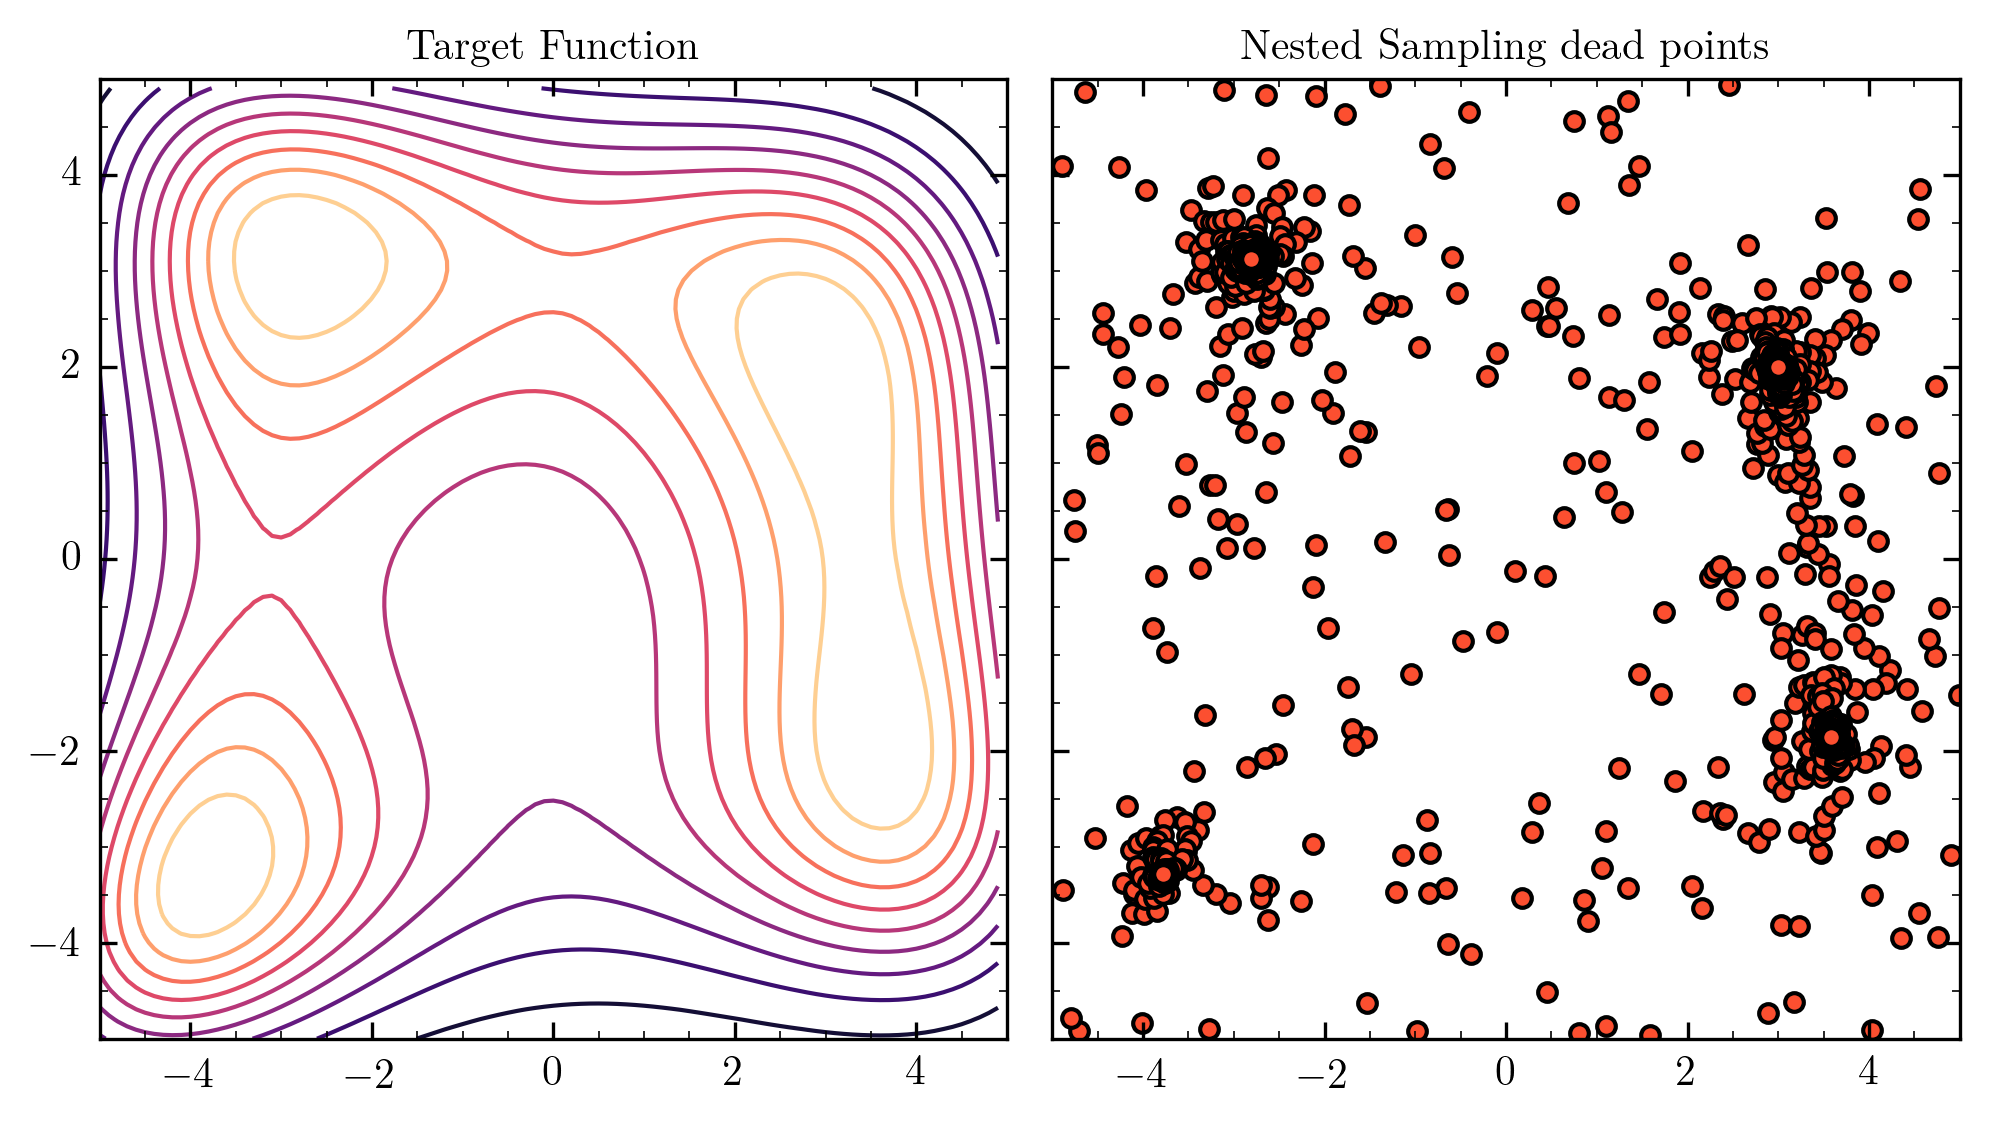
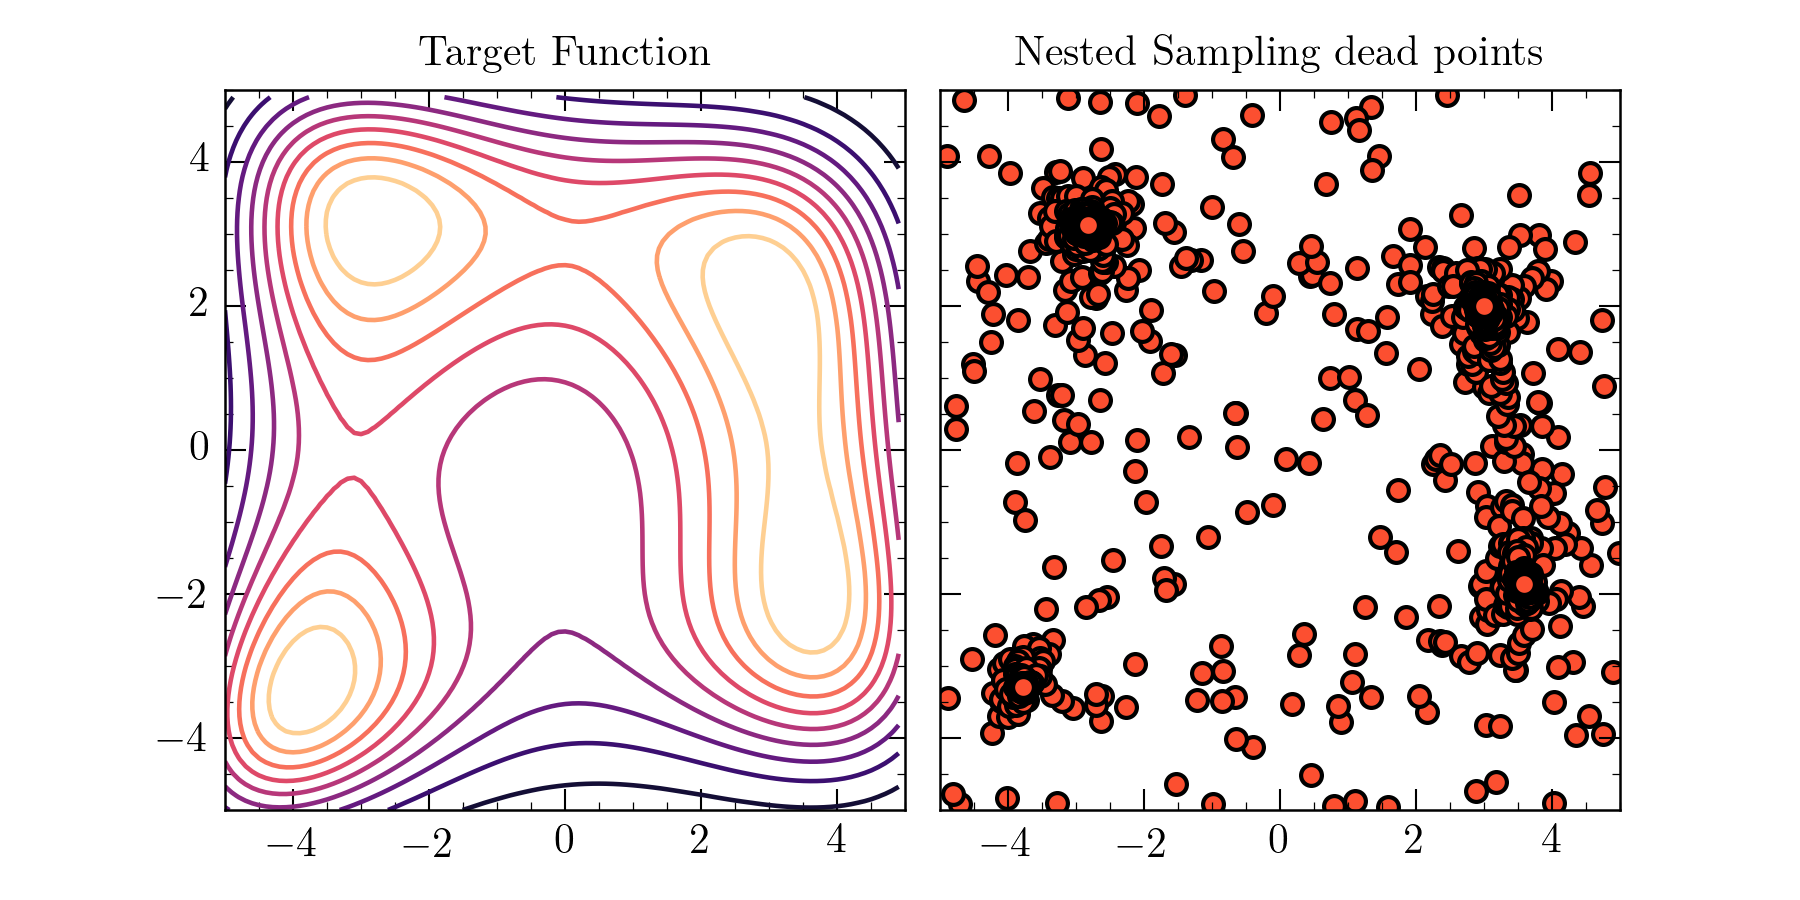
update example animation with compression

Changed region(s): [[0.0311, 0.0311, 0.9956, 0.9644], [0.9644, 0.3111, 0.9956, 0.3733], [0.9644, 0.4044, 0.9956, 0.4356]]

diff --git a/plotting/plots.py b/plotting/plots.py
@@ -3,8 +3,8 @@ import numpy as np
 import os
 import subprocess
 
-plt.style.use(os.path.dirname(os.path.realpath(__file__))+'/polynet.mplstyle')
-
+# plt.style.use(os.path.dirname(os.path.realpath(__file__))+'/polynet.mplstyle')
+plt.style.use("prb")
 
 def make_animation_frames(grid,z,samples,filename,frames_dir="frames"):
     """Make animation frames then animate them with subprocess call to convert
@@ -17,8 +17,8 @@ def make_animation_frames(grid,z,samples,filename,frames_dir="frames"):
         frames_dir (str, optional): Defaults to "frames".
     """
     anim_dir=os.path.join(filename,frames_dir)
-    gs = {"wspace": 0.05, "hspace": 0.03}
-    n_frames=30
+    gs = {"wspace": 0.15, "hspace": 0.03}
+    n_frames=20
     # n_samp=500
     os.makedirs(anim_dir,exist_ok=True)
 
@@ -26,13 +26,13 @@ def make_animation_frames(grid,z,samples,filename,frames_dir="frames"):
         uw = samples.logL_birth[~(samples.logL_birth == -np.inf)]
         points = samples.live_points(uw.min() + i / n_frames * (uw.max() - uw.min()))
 
-        f, a = plt.subplots(nrows=1, ncols=2, sharey=True,sharex=True, gridspec_kw=gs, figsize=[8, 4])
+        f, a = plt.subplots(nrows=1, ncols=2, sharey=True,sharex=True, gridspec_kw=gs, figsize=[6, 3])
         scatterps=points #points.sample(100,replace=True)
         a[0].contour(*grid, z, levels=10, alpha=1.,cmap="magma")
         a[0].contour(*grid, z, levels=[np.exp(scatterps.logL.min())], colors="black", alpha=.6, linewidths=3)
         
-        a[0].set_title("Target Function")
-        a[1].set_title("Nested Sampling live points")
+        a[0].set_title("Likelihood",fontsize=6)
+        a[1].set_title("Live points",fontsize=6)
         
         a[1].scatter(scatterps.to_numpy()[...,0],scatterps.to_numpy()[...,1],marker="o",color="C0",edgecolor="black",rasterized=True)
         a[1].contour(*grid, z, levels=[np.exp(scatterps.logL.min())], colors="black", alpha=.6, linewidths=3)
@@ -40,15 +40,18 @@ def make_animation_frames(grid,z,samples,filename,frames_dir="frames"):
         a[0].set_ylim(-5, 5)
 
         # f.tight_layout()
-        f.savefig(os.path.join(anim_dir, str(i) + ".png"),dpi=150)
+        f.savefig(os.path.join(anim_dir, str(i) + ".png"),dpi=300)
 
     
-    proc=subprocess.Popen(["convert", "-delay", "50",*[os.path.join(anim_dir,str(x)+".png") for x in np.arange(n_frames-1)],"-delay","250",os.path.join(anim_dir,str(n_frames-1)+".png"),os.path.join(filename,filename)+".gif"])
+    proc=subprocess.Popen(["convert", "-delay", "100",*[os.path.join(anim_dir,str(x)+".png") for x in np.arange(n_frames-1)],"-delay","300",os.path.join(anim_dir,str(n_frames-1)+".png"),os.path.join(filename,filename)+".gif"])
     proc.communicate()
-    
+    proc=subprocess.Popen(["mogrify", "-layers", "optimize", "-fuzz", "7%", os.path.join(filename,filename)+".gif"])
+    proc.communicate()
+
+
 def plot_dead(grid,z,samples,filename):
     gs = {"wspace": 0.05, "hspace": 0.03}
-    f, a = plt.subplots(nrows=1, ncols=2, sharey=True,sharex=True, gridspec_kw=gs, figsize=[8, 4])
+    f, a = plt.subplots(nrows=1, ncols=2, sharey=True,sharex=True, gridspec_kw=gs, figsize=[6, 3])
     
     samp=samples[[0,1]].to_numpy()
     a[0].contour(*grid, z, levels=10, alpha=1.,cmap="magma")

diff --git a/rastrigin.py b/rastrigin.py
@@ -5,6 +5,7 @@ import pypolychord.settings as settings
 import os
 import anesthetic
 
+
 def rastrigin(x,scale):
     #vectorized 2d rastrigin function
     x1=x[...,0]
@@ -33,12 +34,34 @@ settings.nlive=1000
 settings.read_resume=False
 settings.write_resume=False
 settings.base_dir=os.path.join(target_directory,"chains")
-run_polychord(loglike,prior=prior,nDims=2,nDerived=0,settings=settings)
+# run_polychord(loglike,prior=prior,nDims=2,nDerived=0,settings=settings)
 
 #read in nested samples
-ns=anesthetic.NestedSamples(root=os.path.join(target_directory,"chains/test"))
+ns=anesthetic.read_chains(root=os.path.join(target_directory,"chains/test"))
 
 #make the live points animation
 make_animation_frames(grid,z,ns,target_directory)
 #plot the dead points 
 plot_dead(grid,z,ns,target_directory)
+
+from mpl_toolkits import mplot3d
+import matplotlib.pyplot as plt
+import matplotlib as mpl
+plt.style.use("prb")
+mpl.rcParams['grid.alpha'] = 0.2
+mpl.rcParams['grid.color'] = "gray"
+X,Y=grid
+fig = plt.figure(figsize=[5,4])
+ax = plt.axes(projection='3d')
+# ax.contour3D(X,Y, z, 10, cmap='magma')
+ax.plot_surface(X, Y, z, rstride=1, cstride=1,
+                cmap='magma', edgecolor='none')
+# plt.axis('off')
+# ax.set_xlabel('x')
+# ax.set_ylabel('y')
+ax.set_zlabel(r'$f(x)$')
+ax.grid(alpha=0.2)
+# plt.grid(b=None)
+ax.view_init(45, 35)
+fig.savefig(os.path.join(target_directory,"rastigrin.pdf"))
+fig.savefig(os.path.join(target_directory,"rastigrin.png"),dpi=250)

diff --git a/himmel.py b/himmel.py
@@ -28,12 +28,34 @@ def loglike(theta):
 settings=settings.PolyChordSettings(nDims=2,nDerived=0)
 settings.nlive=100
 settings.base_dir=os.path.join(target_directory,"chains")
-run_polychord(loglike,prior=prior,nDims=2,nDerived=0,settings=settings)
+# run_polychord(loglike,prior=prior,nDims=2,nDerived=0,settings=settings)
 
 #read in nested samples
-ns=anesthetic.NestedSamples(root=os.path.join(target_directory,"chains/test"))
-
+# ns=anesthetic.NestedSamples(root=os.path.join(target_directory,"chains/test"))
+ns=anesthetic.read_chains(root=os.path.join(target_directory,"chains/test"))
 #make the live points animation
 make_animation_frames(grid,z,ns,target_directory)
 #plot the dead points 
 plot_dead(grid,z,ns,target_directory)
+
+from mpl_toolkits import mplot3d
+import matplotlib.pyplot as plt
+import matplotlib as mpl
+plt.style.use("prb")
+mpl.rcParams['grid.alpha'] = 0.2
+mpl.rcParams['grid.color'] = "gray"
+X,Y=grid
+fig = plt.figure(figsize=[5,4])
+ax = plt.axes(projection='3d')
+# ax.contour3D(X,Y, z, 10, cmap='magma')
+ax.plot_surface(X, Y, z, rstride=1, cstride=1,
+                cmap='magma', edgecolor='none')
+# plt.axis('off')
+# ax.set_xlabel('x')
+# ax.set_ylabel('y')
+ax.set_zlabel(r'$f(x)$')
+ax.grid(alpha=0.2)
+# plt.grid(b=None)
+ax.view_init(45, 35)
+fig.savefig(os.path.join(target_directory,"himmelblau.pdf"))
+fig.savefig(os.path.join(target_directory,"himmelblau.png"),dpi=250)
